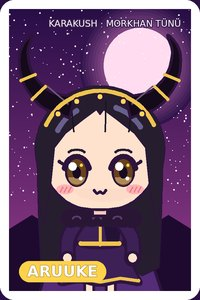
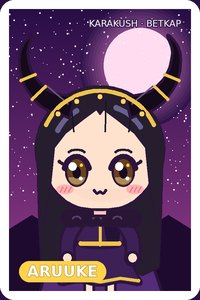
Mirror sync

Changed region(s): [[0.24, 0.06, 0.9, 0.09]]

diff --git a/kushfan/binder.html b/kushfan/binder.html
@@ -92,8 +92,8 @@ img{max-width:100%;height:auto}
 <div class="bx"><h3>✦ blinkies</h3><img src="bl-love.gif" width="150" height="20" alt=""><img src="bl-bal.gif" width="150" height="20" alt=""><img src="bl-chal.gif" width="150" height="20" alt=""><img src="bl-moon.gif" width="150" height="20" alt=""></div>
 <div class="bx"><h3>✦ now playing</h3><p style="margin:0;font-size:12px">Kök Tülkü<br><span style="color:#b9a2d8">(Ak Börü EP, track 5. the underrated one)</span></p></div>
 <div class="bx"><h3>✦ link me!</h3><img src="88x31.gif" width="88" height="31" alt="kushfan"><p style="margin:2px 0 0;font-size:11px;text-align:center">please hotlink, I don't care, uyalar doesn't care</p></div>
-</div><div class="main"><img class="ttl" src="t-binder.gif" width="420" height="60" alt=""><p>✦ my photocard binder!! all drawn by me in the style of the real ones (I don't scan the real ones, they live in the binder and the binder lives under my pillow). <b class="hl">click a card to flip it.</b> hover = holo. yellow tag = for trade, write me.</p><div class="binder"><h4>✦ page 1: Ak Börü era (2021) ✦ the holy page</h4><div class="pockets"><div><div class="pk3" onclick="this.classList.toggle('flip')"><div class="card"><img src="c-dana-akboru.jpg" width="200" height="300" alt="Dana Pak · Ak Börü"><img class="bk" src="cback.jpg" width="200" height="300" alt="card back"></div></div><div class="cap">Dana · Ak Börü</div></div><div><div class="pk3" onclick="this.classList.toggle('flip')"><div class="card"><img src="c-aruuke-akboru.jpg" width="200" height="300" alt="Aruuke Temir kyzy · Ak Börü"><img class="bk" src="cback.jpg" width="200" height="300" alt="card back"></div></div><div class="cap">Aruuke · Ak Börü</div></div><div><div class="pk3" onclick="this.classList.toggle('flip')"><div class="card"><img src="c-saltanat-akboru.jpg" width="200" height="300" alt="Saltanat Abdrakhmanova · Ak Börü"><img class="bk" src="cback.jpg" width="200" height="300" alt="card back"></div></div><div class="cap">Saltanat · Ak Börü</div></div><div><div class="pk3" onclick="this.classList.toggle('flip')"><div class="card"><img src="c-meerim-akboru.jpg" width="200" height="300" alt="Meerim Sultan kyzy · Ak Börü"><img class="bk" src="cback.jpg" width="200" height="300" alt="card back"></div></div><div class="cap">Meerim · Ak Börü</div></div><div><div class="pk3" onclick="this.classList.toggle('flip')"><div class="card"><img src="c-kamila-akboru.jpg" width="200" height="300" alt="Kamila Nurlan · Ak Börü"><img class="bk" src="cback.jpg" width="200" height="300" alt="card back"></div></div><div class="cap">Kamila · Ak Börü</div></div><div><div class="pk3" onclick="this.classList.toggle('flip')"><span class="tag tr">for trade</span><div class="card"><img src="c-dana-akboru.jpg" width="200" height="300" alt="Dana Pak · Ak Börü"><img class="bk" src="cback.jpg" width="200" height="300" alt="card back"></div></div><div class="cap">Dana · Ak Börü</div></div><div><div class="pk3" onclick="this.classList.toggle('flip')"><div class="card"><img src="c-aruuke-umay.jpg" width="200" height="300" alt="Aruuke Temir kyzy · Umay"><img class="bk" src="cback.jpg" width="200" height="300" alt="card back"></div></div><div class="cap">Aruuke · Umay</div></div><div><div class="pk3" onclick="this.classList.toggle('flip')"><div class="card"><img src="c-kamila-umay.jpg" width="200" height="300" alt="Kamila Nurlan · Umay"><img class="bk" src="cback.jpg" width="200" height="300" alt="card back"></div></div><div class="cap">Kamila · Umay</div></div><div><div class="pk3 want">✦ WANTED ✦<br>Umay ver.<br>Dana, Saltanat, Meerim<br>(2018)</div><div class="cap">help me pls</div></div></div></div><div class="binder"><h4>✦ page 2: Morkhan Tünü (2022) + Talas Moon (2023)</h4><div class="pockets"><div><div class="pk3" onclick="this.classList.toggle('flip')"><div class="card"><img src="c-dana-tunu.jpg" width="200" height="300" alt="Dana Pak · Morkhan Tünü"><img class="bk" src="cback.jpg" width="200" height="300" alt="card back"></div></div><div class="cap">Dana · Morkhan Tünü</div></div><div><div class="pk3" onclick="this.classList.toggle('flip')"><div class="card"><img src="c-saltanat-tunu.jpg" width="200" height="300" alt="Saltanat Abdrakhmanova · Morkhan Tünü"><img class="bk" src="cback.jpg" width="200" height="300" alt="card back"></div></div><div class="cap">Saltanat · Morkhan Tünü</div></div><div><div class="pk3" onclick="this.classList.toggle('flip')"><div class="card"><img src="c-meerim-tunu.jpg" width="200" height="300" alt="Meerim Sultan kyzy · Morkhan Tünü"><img class="bk" src="cback.jpg" width="200" height="300" alt="card back"></div></div><div class="cap">Meerim · Morkhan Tünü</div></div><div><div class="pk3" onclick="this.classList.toggle('flip')"><span class="tag tr">for trade</span><div class="card"><img src="c-aruuke-tunu.jpg" width="200" height="300" alt="Aruuke Temir kyzy · Morkhan Tünü"><img class="bk" src="cback.jpg" width="200" height="300" alt="card back"></div></div><div class="cap">Aruuke · Morkhan Tünü</div></div><div><div class="pk3" onclick="this.classList.toggle('flip')"><div class="card"><img src="c-kamila-tunu.jpg" width="200" height="300" alt="Kamila Nurlan · Morkhan Tünü"><img class="bk" src="cback.jpg" width="200" height="300" alt="card back"></div></div><div class="cap">Kamila · Morkhan Tünü</div></div><div><div class="pk3" onclick="this.classList.toggle('flip')"><div class="card"><img src="c-dana-moon.jpg" width="200" height="300" alt="Dana Pak · Talas Moon"><img class="bk" src="cback.jpg" width="200" height="300" alt="card back"></div></div><div class="cap">Dana · Talas Moon</div></div><div><div class="pk3" onclick="this.classList.toggle('flip')"><div class="card"><img src="c-meerim-moon.jpg" width="200" height="300" alt="Meerim Sultan kyzy · Talas Moon"><img class="bk" src="cback.jpg" width="200" height="300" alt="card back"></div></div><div class="cap">Meerim · Talas Moon</div></div><div><div class="pk3" onclick="this.classList.toggle('flip')"><div class="card"><img src="c-saltanat-moon.jpg" width="200" height="300" alt="Saltanat Abdrakhmanova · Talas Moon"><img class="bk" src="cback.jpg" width="200" height="300" alt="card back"></div></div><div class="cap">Saltanat · Talas Moon</div></div><div><div class="pk3 want">✦ WANTED ✦<br>Talas Moon ver.<br>Aruuke + Kamila<br>(2023)</div><div class="cap">help me pls</div></div></div></div><div class="bx"><h3>✦ trade rules</h3><p>I trade in Talas only, by hand (the meet-ups by the Oktyabr cinema, the first Saturday of the month) or by marshrutka parcel to Nurzhan if I know you. no money, cards for cards. I will never trade the Dana Ak Börü. I have two. I will never trade either.</p>
-<p>wanted most: <b class="hl">anything from Umay (2018)</b>. there were barely any cards back then, the agency was small. if your older sister has a box from 2018, LOOK IN THE BOX.</p></div></div></div>
+</div><div class="main"><img class="ttl" src="t-binder.gif" width="420" height="60" alt=""><p>✦ my photocard binder!! all drawn by me in the style of the real ones (I don't scan the real ones, they live in the binder and the binder lives under my pillow). <b class="hl">click a card to flip it.</b> hover = holo. yellow tag = for trade, write me.</p><div class="binder"><h4>✦ page 1: Ak Börü era (2021) ✦ the holy page</h4><div class="pockets"><div><div class="pk3" onclick="this.classList.toggle('flip')"><div class="card"><img src="c-dana-akboru.jpg" width="200" height="300" alt="Dana Pak · Ak Börü"><img class="bk" src="cback.jpg" width="200" height="300" alt="card back"></div></div><div class="cap">Dana · Ak Börü</div></div><div><div class="pk3" onclick="this.classList.toggle('flip')"><div class="card"><img src="c-aruuke-akboru.jpg" width="200" height="300" alt="Aruuke Temir kyzy · Ak Börü"><img class="bk" src="cback.jpg" width="200" height="300" alt="card back"></div></div><div class="cap">Aruuke · Ak Börü</div></div><div><div class="pk3" onclick="this.classList.toggle('flip')"><div class="card"><img src="c-saltanat-akboru.jpg" width="200" height="300" alt="Saltanat Abdrakhmanova · Ak Börü"><img class="bk" src="cback.jpg" width="200" height="300" alt="card back"></div></div><div class="cap">Saltanat · Ak Börü</div></div><div><div class="pk3" onclick="this.classList.toggle('flip')"><div class="card"><img src="c-meerim-akboru.jpg" width="200" height="300" alt="Meerim Sultan kyzy · Ak Börü"><img class="bk" src="cback.jpg" width="200" height="300" alt="card back"></div></div><div class="cap">Meerim · Ak Börü</div></div><div><div class="pk3" onclick="this.classList.toggle('flip')"><div class="card"><img src="c-kamila-akboru.jpg" width="200" height="300" alt="Kamila Nurlan · Ak Börü"><img class="bk" src="cback.jpg" width="200" height="300" alt="card back"></div></div><div class="cap">Kamila · Ak Börü</div></div><div><div class="pk3" onclick="this.classList.toggle('flip')"><span class="tag tr">for trade</span><div class="card"><img src="c-dana-akboru.jpg" width="200" height="300" alt="Dana Pak · Ak Börü"><img class="bk" src="cback.jpg" width="200" height="300" alt="card back"></div></div><div class="cap">Dana · Ak Börü</div></div><div><div class="pk3" onclick="this.classList.toggle('flip')"><div class="card"><img src="c-aruuke-umay.jpg" width="200" height="300" alt="Aruuke Temir kyzy · Uchuu"><img class="bk" src="cback.jpg" width="200" height="300" alt="card back"></div></div><div class="cap">Aruuke · Uchuu</div></div><div><div class="pk3" onclick="this.classList.toggle('flip')"><div class="card"><img src="c-kamila-umay.jpg" width="200" height="300" alt="Kamila Nurlan · Uchuu"><img class="bk" src="cback.jpg" width="200" height="300" alt="card back"></div></div><div class="cap">Kamila · Uchuu</div></div><div><div class="pk3 want">✦ WANTED ✦<br>Uchuu ver.<br>Dana, Saltanat, Meerim<br>(2018)</div><div class="cap">help me pls</div></div></div></div><div class="binder"><h4>✦ page 2: Betkap (2022) + Passenger Seat (2023)</h4><div class="pockets"><div><div class="pk3" onclick="this.classList.toggle('flip')"><div class="card"><img src="c-dana-tunu.jpg" width="200" height="300" alt="Dana Pak · Betkap"><img class="bk" src="cback.jpg" width="200" height="300" alt="card back"></div></div><div class="cap">Dana · Betkap</div></div><div><div class="pk3" onclick="this.classList.toggle('flip')"><div class="card"><img src="c-saltanat-tunu.jpg" width="200" height="300" alt="Saltanat Abdrakhmanova · Betkap"><img class="bk" src="cback.jpg" width="200" height="300" alt="card back"></div></div><div class="cap">Saltanat · Betkap</div></div><div><div class="pk3" onclick="this.classList.toggle('flip')"><div class="card"><img src="c-meerim-tunu.jpg" width="200" height="300" alt="Meerim Sultan kyzy · Betkap"><img class="bk" src="cback.jpg" width="200" height="300" alt="card back"></div></div><div class="cap">Meerim · Betkap</div></div><div><div class="pk3" onclick="this.classList.toggle('flip')"><span class="tag tr">for trade</span><div class="card"><img src="c-aruuke-tunu.jpg" width="200" height="300" alt="Aruuke Temir kyzy · Betkap"><img class="bk" src="cback.jpg" width="200" height="300" alt="card back"></div></div><div class="cap">Aruuke · Betkap</div></div><div><div class="pk3" onclick="this.classList.toggle('flip')"><div class="card"><img src="c-kamila-tunu.jpg" width="200" height="300" alt="Kamila Nurlan · Betkap"><img class="bk" src="cback.jpg" width="200" height="300" alt="card back"></div></div><div class="cap">Kamila · Betkap</div></div><div><div class="pk3" onclick="this.classList.toggle('flip')"><div class="card"><img src="c-dana-moon.jpg" width="200" height="300" alt="Dana Pak · Passenger Seat"><img class="bk" src="cback.jpg" width="200" height="300" alt="card back"></div></div><div class="cap">Dana · Passenger Seat</div></div><div><div class="pk3" onclick="this.classList.toggle('flip')"><div class="card"><img src="c-meerim-moon.jpg" width="200" height="300" alt="Meerim Sultan kyzy · Passenger Seat"><img class="bk" src="cback.jpg" width="200" height="300" alt="card back"></div></div><div class="cap">Meerim · Passenger Seat</div></div><div><div class="pk3" onclick="this.classList.toggle('flip')"><div class="card"><img src="c-saltanat-moon.jpg" width="200" height="300" alt="Saltanat Abdrakhmanova · Passenger Seat"><img class="bk" src="cback.jpg" width="200" height="300" alt="card back"></div></div><div class="cap">Saltanat · Passenger Seat</div></div><div><div class="pk3 want">✦ WANTED ✦<br>Passenger Seat ver.<br>Aruuke + Kamila<br>(2023)</div><div class="cap">help me pls</div></div></div></div><div class="bx"><h3>✦ trade rules</h3><p>I trade in Talas only, by hand (the meet-ups by the Oktyabr cinema, the first Saturday of the month) or by marshrutka parcel to Nurzhan if I know you. no money, cards for cards. I will never trade the Dana Ak Börü. I have two. I will never trade either.</p>
+<p>wanted most: <b class="hl">anything from Uchuu (2018)</b>. there were barely any cards back then, the agency was small. if your older sister has a box from 2018, LOOK IN THE BOX.</p></div></div></div>
 <div class="tunduk-ring" style="text-align:center;margin:16px auto;padding:6px;font:13px Verdana,sans-serif;color:#ffd6f4;background:#160828;border:1px dashed #ff7ad9;max-width:560px"><a href="../kokordo/index.html">&larr; prev</a> &middot; <a href="../jany/ring.html"><img src="../jany/ring88.gif" width="88" height="31" alt="Tündük ring" style="vertical-align:middle;border:0;image-rendering:pixelated"></a> &middot; <a href="../crawl/index.html">next &rarr;</a> &middot; <a href="#" onclick="var r=['../komnata/index.html','../m22/index.html','../ostanovka/index.html','../tuntolk/index.html','../vostern/index.html','../mysyk/index.html','../tamga/index.html','../aulieata/index.html','../kozu/index.html','../kseroks/index.html','../jylky/index.html','../tun/index.html','../okuu/index.html','../stikerler/index.html','../kokordo/index.html','../crawl/index.html','../marshrut/index.html','../shyrdak/index.html','../asman/index.html','../podval/index.html','../intourist/index.html','../tush/index.html'];location.href=r[Math.floor(Math.random()*r.length)];return false">random</a></div><div class="foot">✦ best viewed in 1024x768 with your heart open ✦ this is a FAN site, I am not Kök Ay, all drawings are mine (don't trace) ✦<br><a href="../top100.html"><img src="../img/cnt-kushfan.gif" width="88" height="31" border="0" alt="Uyalar TOP-100" title="Uyalar TOP-100"></a></div></div>
 <script>
 (function(){var C=['#ff7ad9','#ffe066','#7fe8ff','#ffffff','#b84dff'],S=['✦','✧','♡','⋆','✦'],t=0;

diff --git a/kushfan/index.html b/kushfan/index.html
@@ -93,7 +93,7 @@ img{max-width:100%;height:auto}
 <div class="bx"><h3>✦ now playing</h3><p style="margin:0;font-size:12px">Kök Tülkü<br><span style="color:#b9a2d8">(Ak Börü EP, track 5. the underrated one)</span></p></div>
 <div class="bx"><h3>✦ link me!</h3><img src="88x31.gif" width="88" height="31" alt="kushfan"><p style="margin:2px 0 0;font-size:11px;text-align:center">please hotlink, I don't care, uyalar doesn't care</p></div>
 </div><div class="main"><img class="ttl" src="t-home.gif" width="360" height="60" alt=""><div class="bx"><h3>✦ welcome balapan ✦</h3>
-<p>hiii and welcome to my <span class="pk">nest</span> ✦ this is a fan shrine to <b class="hl">KARAKUSH</b> (Каракуш, "golden eagle"), five girls from Talas, the best Mor-Pop group in the world and the only one that matters, sorry Altyn Muuz.</p>
+<p>hiii and welcome to my <span class="pk">nest</span> ✦ this is a fan shrine to <b class="hl">KARAKUSH</b> (Каракуш, "golden eagle"), five girls from Talas, the best Mor-Pop group in the world and the only one that matters, sorry 4Muuz.</p>
 <p>it looks like 2003 on purpose. my older cousin showed me screenshots of her friend's fan site from back then, with the sparkles and the music that started by itself, and I said: that. I want that. (no music that starts by itself though. you're welcome.)</p>
 <p>we call ourselves <b class="hl">Balapan</b> (балапан = eaglet, a baby eagle) because if they are the eagle then we are the little ones in the nest, waiting with our mouths open for content. it's not official. it should be.</p>
 </div><div class="cd" id="cd"><small>✦ AK BÖRÜ TURNS 6 IN ✦</small><b id="cdn">--- days --:--:--</b>
@@ -108,18 +108,18 @@ f();setInterval(f,1000)})();
 </script>
 <p style="text-align:center;font-size:12px" id="since"></p>
 <script>(function(){var d=Math.floor((Date.now()-new Date(2023,0,1).getTime())/86400000);
-document.getElementById('since').innerHTML='days since we got a new single (Talas Moon, 2023): <b class="pk">'+d+'+</b> ✦ days we have waited patiently: <b class="cy">all of them</b>';})();</script><div class="bx"><h3>✦ who are they (for new balapan)</h3>
-<p>Karakush debuted in 2018 with <b>Umay</b>. they are from <b>Kök Ay Media</b> in Talas (the blue moon agency). in February 2021 they released the EP <b class="hl">Ak Börü</b> ("White Wolf") and the video on the frozen lake with the white wolf capes and the horns, and the dance challenge went everywhere, Almaty, Tashkent, Korea even. they promoted in Korea in 2022. then <b>Morkhan Tünü</b> (2022) and <b>Talas Moon</b> (2023). Altyn-Zhylky in 2019, 2021 and 2023. foreigners call them a one-hit wonder. foreigners can be quiet.</p>
+document.getElementById('since').innerHTML='days since we got a new single (Passenger Seat, 2023): <b class="pk">'+d+'+</b> ✦ days we have waited patiently: <b class="cy">all of them</b>';})();</script><div class="bx"><h3>✦ who are they (for new balapan)</h3>
+<p>Karakush debuted in 2018 with <b>Uchuu</b> (that is where the word balapan comes from, the eaglet in it). they are from <b>Kök Ay Media</b> in Talas (the blue moon agency). in February 2021 they released the EP <b class="hl">Ak Börü</b> ("White Wolf") and the video on the frozen lake with the white wolf capes and the horns, and the dance challenge went everywhere, Almaty, Tashkent, Korea even. they promoted in Korea in 2022. then <b>Betkap</b> (2022) and <b>Passenger Seat</b> (2023). Altyn-Zhylky in 2019, 2021 and 2023. foreigners call them a one-hit wonder. foreigners can be quiet.</p>
 <p>members: <a href="members.html">Aruuke ✦ Dana ✦ Saltanat ✦ Meerim ✦ Kamila</a></p></div>
 <div class="bx"><h3>✦ updates</h3><ul class="log">
 <li><b class="hl">29.10.2026</b> ✦ 2 new cards in the <a href="binder.html">binder</a>!! traded at the meet-up by the Oktyabr cinema (thank u aigerim, your Saltanat is in good hands)</li>
 <li><b class="hl">15.09.2026</b> ✦ new member drawings, the old ones were from when I was 15 and the eyes were scary</li>
 <li><b class="hl">04.08.2026</b> ✦ the long one is over and the Korean stages load again. I watched the 2022 Ak Börü music show stage 11 times in one night. my mother came in at 3 am. no comment</li>
 <li><b class="hl">19.02.2026</b> ✦ HAPPY 5 YEARS AK BÖRÜ ✦ countdown reset to year 6</li>
-<li><b class="hl">02.05.2025</b> ✦ added the <a href="chant.html">fanchant guide</a> because the girls at the Talas Moon concert were shouting the names in the wrong order</li>
+<li><b class="hl">02.05.2025</b> ✦ added the <a href="chant.html">fanchant guide</a> because the girls at the Passenger Seat concert were shouting the names in the wrong order</li>
 <li><b class="hl">11.12.2024</b> ✦ the nest is open!! I wanted a Kündölük blog in 2023 but they stopped new blogs right when I turned 14. so: uyalar ✦</li>
 </ul></div>
-<div class="bx"><h3>✦ rules of the nest</h3><p>1. no hate on any member. not even "joking". 2. no hate on other groups either (ok a little on Altyn Muuz but with love). 3. don't repost my drawings without a link. 4. Mor-Wave people: I know you don't like Mor-Pop. it's ok. you can still listen to Kök Tülkü at night, nobody will know.</p></div></div></div>
+<div class="bx"><h3>✦ rules of the nest</h3><p>1. no hate on any member. not even "joking". 2. no hate on other groups either (ok a little on 4Muuz but with love). 3. don't repost my drawings without a link. 4. Mor-Wave people: I know you don't like Mor-Pop. it's ok. you can still listen to Kök Tülkü at night, nobody will know.</p></div></div></div>
 <div class="tunduk-ring" style="text-align:center;margin:16px auto;padding:6px;font:13px Verdana,sans-serif;color:#ffd6f4;background:#160828;border:1px dashed #ff7ad9;max-width:560px"><a href="../kokordo/index.html">&larr; prev</a> &middot; <a href="../jany/ring.html"><img src="../jany/ring88.gif" width="88" height="31" alt="Tündük ring" style="vertical-align:middle;border:0;image-rendering:pixelated"></a> &middot; <a href="../crawl/index.html">next &rarr;</a> &middot; <a href="#" onclick="var r=['../komnata/index.html','../m22/index.html','../ostanovka/index.html','../tuntolk/index.html','../vostern/index.html','../mysyk/index.html','../tamga/index.html','../aulieata/index.html','../kozu/index.html','../kseroks/index.html','../jylky/index.html','../tun/index.html','../okuu/index.html','../stikerler/index.html','../kokordo/index.html','../crawl/index.html','../marshrut/index.html','../shyrdak/index.html','../asman/index.html','../podval/index.html','../intourist/index.html','../tush/index.html'];location.href=r[Math.floor(Math.random()*r.length)];return false">random</a></div><div class="foot">✦ best viewed in 1024x768 with your heart open ✦ this is a FAN site, I am not Kök Ay, all drawings are mine (don't trace) ✦<br><a href="../top100.html"><img src="../img/cnt-kushfan.gif" width="88" height="31" border="0" alt="Uyalar TOP-100" title="Uyalar TOP-100"></a></div></div>
 <script>
 (function(){var C=['#ff7ad9','#ffe066','#7fe8ff','#ffffff','#b84dff'],S=['✦','✧','♡','⋆','✦'],t=0;

diff --git a/kushfan/members.html b/kushfan/members.html
@@ -97,11 +97,11 @@ img{max-width:100%;height:auto}
 <tr><td>position</td><td>leader, vocals</td></tr><tr><td>symbol</td><td>the golden eagle (the group's own name, so the leader gets it)</td></tr>
 <tr><td>colour</td><td><span style="background:#ffd24a;color:#160828;padding:0 6px">#ffd24a</span> (the fandom colour, we chose it in 2024 in a Tulpar poll, 312 votes)</td></tr>
 <tr><td>balapan call her</td><td>kapitan</td></tr><tr><td>✦</td><td>born 1999, Talas</td></tr><tr><td>✦</td><td>sang in the children's choir of the Irad Palace of Art</td></tr><tr><td>✦</td><td>won a place at the 2017 Kök Ay auditions</td></tr><tr><td>✦</td><td>wears a little cross on stage (look at the Ak Börü stage, it's there under the cape)</td></tr></table>
-<div class="note"><b>bermet says:</b> the high note in the 2021 version of Umay. I have listened to it maybe 400 times. she is the leader because when the other four talk at once she says one word and they stop. (I saw it at the Altyn-Zhylky 2023 broadcast.)</div></div></div><div class="mem" style="--c:#bfe6ff"><img src="m-dana.jpg" width="200" height="273" alt="Dana Pak, drawn by bermet">
+<div class="note"><b>bermet says:</b> the high note in the 2021 version of Uchuu. I have listened to it maybe 400 times. she is the leader because when the other four talk at once she says one word and they stop. (I saw it at the Altyn-Zhylky 2023 broadcast.)</div></div></div><div class="mem" style="--c:#bfe6ff"><img src="m-dana.jpg" width="200" height="273" alt="Dana Pak, drawn by bermet">
 <div><h2>Dana Pak</h2><div class="cyr">Дана Пак</div><table>
 <tr><td>position</td><td>lead dancer</td></tr><tr><td>symbol</td><td>the white wolf (she made the wolf dance)</td></tr>
 <tr><td>colour</td><td><span style="background:#bfe6ff;color:#160828;padding:0 6px">#bfe6ff</span> (the fandom colour, we chose it in 2024 in a Tulpar poll, 312 votes)</td></tr>
-<tr><td>balapan call her</td><td>börüchük (little wolf)</td></tr><tr><td>✦</td><td>Koryo-saram, from Nurzhan</td></tr><tr><td>✦</td><td>choreographed the white wolf dance (the claw move in the chorus = the challenge)</td></tr><tr><td>✦</td><td>co-produced Ak Börü and Kar Kyz on the EP</td></tr><tr><td>✦</td><td>her silver bob in the Ak Börü era. legendary</td></tr></table>
+<tr><td>balapan call her</td><td>börüchük (little wolf)</td></tr><tr><td>✦</td><td>Koryo-saram, from Nurzhan</td></tr><tr><td>✦</td><td>choreographed the white wolf dance (the claw move in the chorus = the challenge)</td></tr><tr><td>✦</td><td>co-produced Ak Börü and Ilbirs on the EP</td></tr><tr><td>✦</td><td>her silver bob in the Ak Börü era. legendary</td></tr></table>
 <div class="note"><b>bermet says:</b> MY BIAS. she made the dance that half of Talas did in their kitchens in 2021, me included (my video has 34 views and my cousin falls over in it). when she does the claw on the last chorus I scream every time, even on my phone.</div></div></div><div class="mem" style="--c:#ff4f7b"><img src="m-saltanat.jpg" width="200" height="273" alt="Saltanat Abdrakhmanova, drawn by bermet">
 <div><h2>Saltanat Abdrakhmanova</h2><div class="cyr">Салтанат Абдрахманова</div><table>
 <tr><td>position</td><td>rap</td></tr><tr><td>symbol</td><td>the Morkhan horns (she wears them like she owns them)</td></tr>
@@ -109,10 +109,10 @@ img{max-width:100%;height:auto}
 <tr><td>balapan call her</td><td>saltysh</td></tr><tr><td>✦</td><td>the rapper of the group</td></tr><tr><td>✦</td><td>NO relation to the old Governor (everyone asks, stop asking)</td></tr><tr><td>✦</td><td>high ponytail, red streak, the smirk</td></tr><tr><td>✦</td><td>the one who looks into the camera like she knows your password</td></tr></table>
 <div class="note"><b>bermet says:</b> her rap parts are the only ones my dad knows. he pretends he doesn't like Mor-Pop but he does the smirk when he hears her.</div></div></div><div class="mem" style="--c:#c39bff"><img src="m-meerim.jpg" width="200" height="273" alt="Meerim Sultan kyzy, drawn by bermet">
 <div><h2>Meerim Sultan kyzy</h2><div class="cyr">Мээрим Султан кызы</div><table>
-<tr><td>position</td><td>vocals</td></tr><tr><td>symbol</td><td>the moon (because of Ai Jaryk, and Talas Moon)</td></tr>
+<tr><td>position</td><td>vocals</td></tr><tr><td>symbol</td><td>the kekilik, the mountain partridge (because of Kekilik, her yodel song)</td></tr>
 <tr><td>colour</td><td><span style="background:#c39bff;color:#160828;padding:0 6px">#c39bff</span> (the fandom colour, we chose it in 2024 in a Tulpar poll, 312 votes)</td></tr>
-<tr><td>balapan call her</td><td>ai-meerim</td></tr><tr><td>✦</td><td>vocals</td></tr><tr><td>✦</td><td>the softest voice in Ai Jaryk (track 2)</td></tr><tr><td>✦</td><td>always the moon hairpin in my drawings (fan thing, not official)</td></tr><tr><td>✦</td><td>laughs with her whole face</td></tr></table>
-<div class="note"><b>bermet says:</b> if Aruuke is the high note then Meerim is the floor everything stands on. listen to the end of Ai Jaryk with headphones. that is her.</div></div></div><div class="mem" style="--c:#57b8ff"><img src="m-kamila.jpg" width="200" height="273" alt="Kamila Nurlan, drawn by bermet">
+<tr><td>balapan call her</td><td>ai-meerim</td></tr><tr><td>✦</td><td>vocals</td></tr><tr><td>✦</td><td>the yodel flip in Kekilik (track 2)</td></tr><tr><td>✦</td><td>always the partridge-feather hairpin in my drawings (fan thing, not official)</td></tr><tr><td>✦</td><td>laughs with her whole face</td></tr></table>
+<div class="note"><b>bermet says:</b> if Aruuke is the high note then Meerim is the floor everything stands on. listen to the end of Kekilik with headphones. that is her.</div></div></div><div class="mem" style="--c:#57b8ff"><img src="m-kamila.jpg" width="200" height="273" alt="Kamila Nurlan, drawn by bermet">
 <div><h2>Kamila Nurlan</h2><div class="cyr">Камила Нурлан</div><table>
 <tr><td>position</td><td>vocals</td></tr><tr><td>symbol</td><td>the blue fox (Kök Tülkü is her song in my heart)</td></tr>
 <tr><td>colour</td><td><span style="background:#57b8ff;color:#160828;padding:0 6px">#57b8ff</span> (the fandom colour, we chose it in 2024 in a Tulpar poll, 312 votes)</td></tr>

diff --git a/kushfan/chant.html b/kushfan/chant.html
@@ -97,14 +97,14 @@ img{max-width:100%;height:auto}
 <p><b>✦ Ak Börü, the intro</b> (the slow komuz, 8 counts): the names, IN THIS ORDER:<br><i>A-RUU-KE! · DA-NA! · SAL-TA-NAT! · MEE-RIM! · KA-MI-LA! · BA-LA-PAN!</i><br>(the last one is us. we shout our own name. that's allowed.)</p>
 <p><b>✦ Ak Börü, before the chorus</b>: everybody HOWLS. one long one. not a dog. a wolf. practise at home (warn your neighbours)</p>
 <p><b>✦ Ak Börü, the chorus</b>: claw hand up on the beat, like Dana. both hands on the last one</p>
-<p><b>✦ Umay</b>: no shouting in the verses, it's a soft song. phone lights on. in the bridge we say <i>"U-MAY"</i> quietly twice. quietly!!</p>
-<p><b>✦ Morkhan Tünü</b>: stomp, stomp, clap (the frame-drum part). horns hands (index + pinky) on the drop</p>
-<p><b>✦ Talas Moon</b>: it's in English so we shout the English hook back, you know the one. then <i>"TA-LAS!"</i> at the end. it's our city, be loud</p></div></div>
+<p><b>✦ Uchuu</b>: no shouting in the verses, it's a soft song. phone lights on. in the bridge we say <i>"U-CHUU"</i> quietly twice. quietly!!</p>
+<p><b>✦ Betkap</b>: stomp, stomp, clap (the frame-drum part). horns hands (index + pinky) on the drop</p>
+<p><b>✦ Passenger Seat</b>: it's in English so we shout the English hook back, you know the one. then <i>"TA-LAS!"</i> at the end. it's our city, be loud</p></div></div>
 <div class="bx"><h3>✦ words from the song titles (for foreign balapan)</h3><table class="gl">
-<tr><td>Ak Börü</td><td>white wolf (ak = white, börü = wolf)</td></tr><tr><td>Ai Jaryk</td><td>moonlight (ai = moon, jaryk = light)</td></tr>
-<tr><td>Kar Kyz</td><td>snow girl</td></tr><tr><td>Kök Tülkü</td><td>blue fox (kök = blue, sky-blue, also green for grass, don't ask)</td></tr>
-<tr><td>Umay</td><td>the old mother goddess, of babies and the hearth. my grandmother says Umay Ene and crosses herself in the same sentence</td></tr>
-<tr><td>Morkhan Tünü</td><td>Morkhan's night. Morkhan is the old dark one with the bull horns. it's a SONG, apa</td></tr>
+<tr><td>Ak Börü</td><td>white wolf (ak = white, börü = wolf)</td></tr><tr><td>Kekilik</td><td>mountain partridge (the one that runs up the rocks)</td></tr>
+<tr><td>Ilbirs</td><td>snow leopard</td></tr><tr><td>Kök Tülkü</td><td>blue fox (kök = blue, sky-blue, also green for grass, don't ask)</td></tr>
+<tr><td>Uchuu</td><td>flight, flying (the eaglet's first flight off the cliff)</td></tr>
+<tr><td>Betkap</td><td>the mask. the bull masks in the video are Morkhan, the old dark one with the horns. it's a SONG, apa</td></tr>
 <tr><td>Karakush</td><td>golden eagle</td></tr><tr><td>balapan</td><td>eaglet, baby bird. us</td></tr></table></div>
 <div class="bx"><h3>✦ my own song for them (I wrote it, it's bad, I love it)</h3>
 <p>written for the 5th Ak Börü day. Iradi left, English right. not a real Karakush song!! don't put it on the internet as one!!</p>
